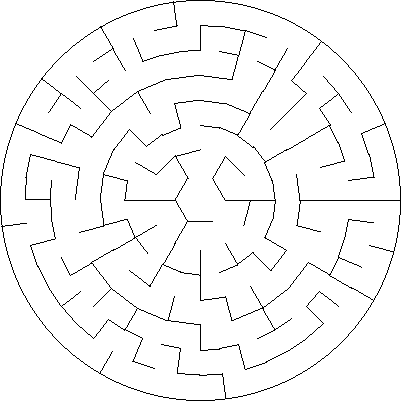
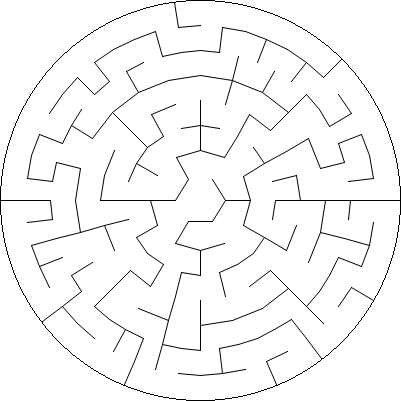
feat: use antialiasing for polar grid

diff --git a/src/grid.rs b/src/grid.rs
@@ -3,7 +3,11 @@ use std::f32;
 
 use image::{Rgb, RgbImage};
 use imageproc::{
-    drawing::{draw_filled_rect_mut, draw_hollow_circle_mut, draw_line_segment_mut},
+    drawing::{
+        draw_antialiased_line_segment_mut, draw_filled_rect_mut, draw_hollow_circle_mut,
+        draw_line_segment_mut,
+    },
+    pixelops,
     rect::Rect,
 };
 use petgraph::prelude::UnGraphMap;
@@ -535,26 +539,38 @@ impl Grid<Polar> {
             let theta_ccw = cell.col as f32 * theta;
             let theta_cw = (cell.col + 1) as f32 * theta;
 
-            let ax = center as f32 + (inner_radius * theta_ccw.cos());
-            let ay = center as f32 + (inner_radius * theta_ccw.sin());
-            let cx = center as f32 + (inner_radius * theta_cw.cos());
-            let cy = center as f32 + (inner_radius * theta_cw.sin());
-            let dx = center as f32 + (outer_radius * theta_cw.cos());
-            let dy = center as f32 + (outer_radius * theta_cw.sin());
+            let ax = center + (inner_radius * theta_ccw.cos()) as i32;
+            let ay = center + (inner_radius * theta_ccw.sin()) as i32;
+            let cx = center + (inner_radius * theta_cw.cos()) as i32;
+            let cy = center + (inner_radius * theta_cw.sin()) as i32;
+            let dx = center + (outer_radius * theta_cw.cos()) as i32;
+            let dy = center + (outer_radius * theta_cw.sin()) as i32;
 
             if !self
                 .inward(cell)
                 .map(|north| self.are_linked(cell, north))
                 .unwrap_or(false)
             {
-                draw_line_segment_mut(&mut img, (ax, ay), (cx, cy), wall);
+                draw_antialiased_line_segment_mut(
+                    &mut img,
+                    (ax, ay),
+                    (cx, cy),
+                    wall,
+                    pixelops::interpolate,
+                );
             }
             if !self
                 .clockwise(cell)
                 .map(|east| self.are_linked(cell, east))
                 .unwrap_or(false)
             {
-                draw_line_segment_mut(&mut img, (cx, cy), (dx, dy), wall);
+                draw_antialiased_line_segment_mut(
+                    &mut img,
+                    (cx, cy),
+                    (dx, dy),
+                    wall,
+                    pixelops::interpolate,
+                );
             }
         }
 
